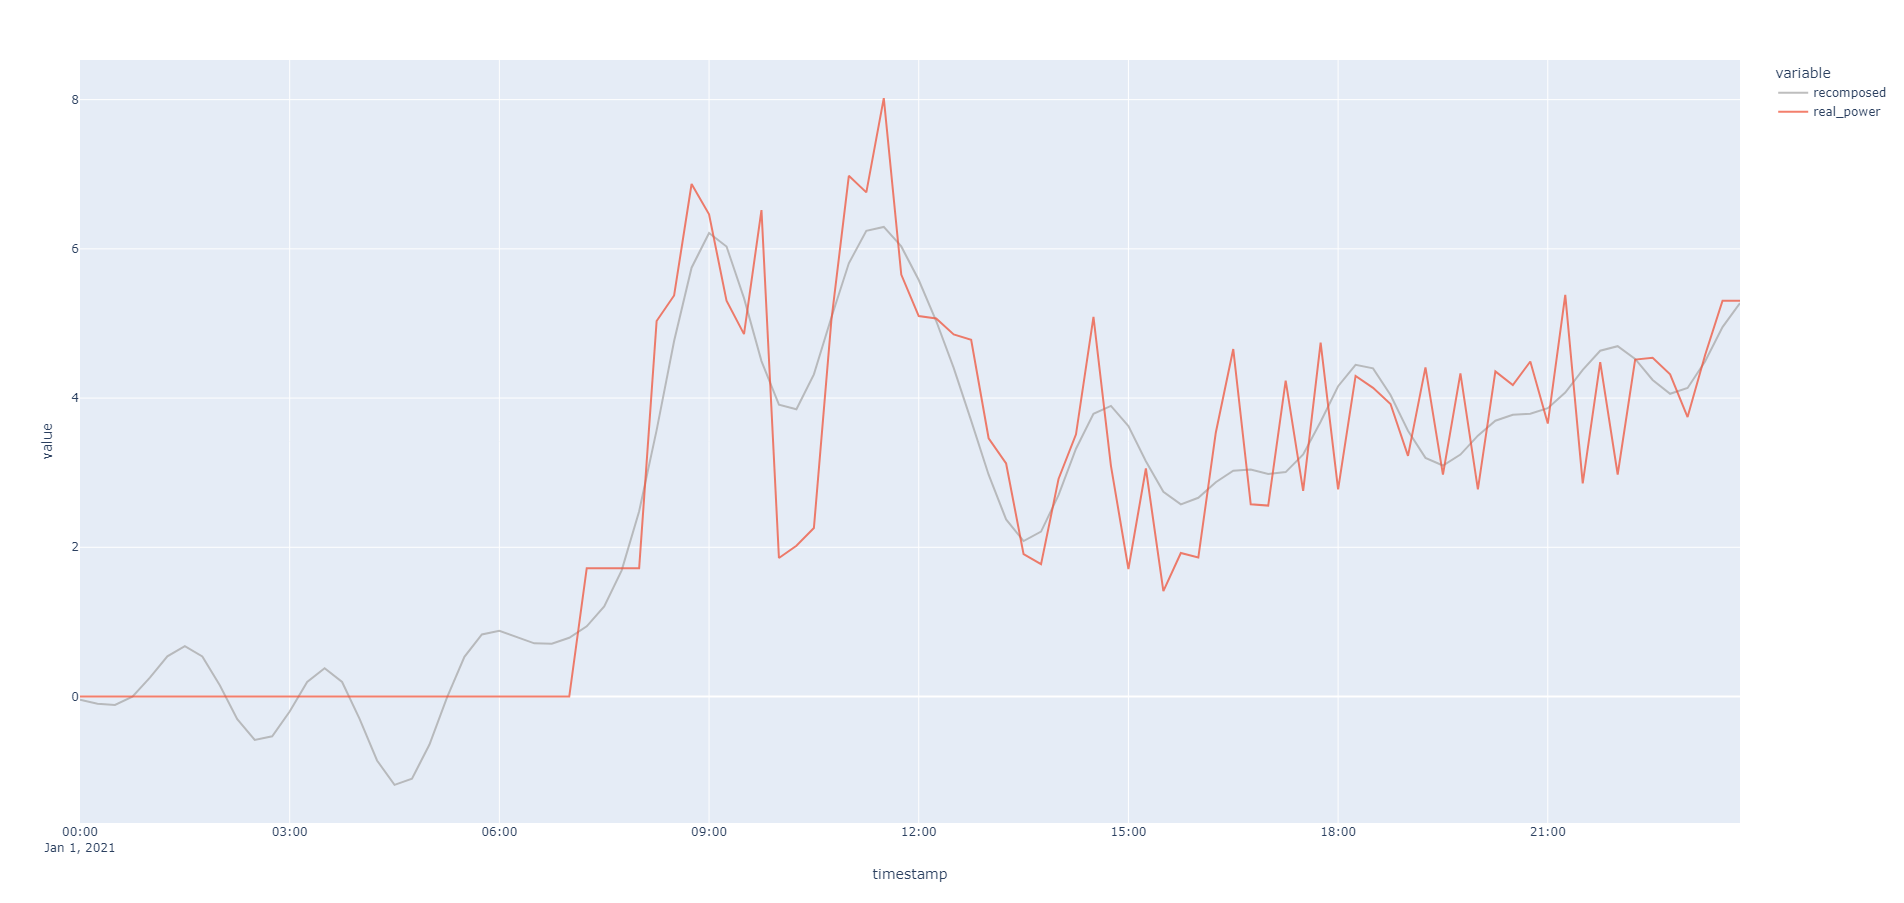
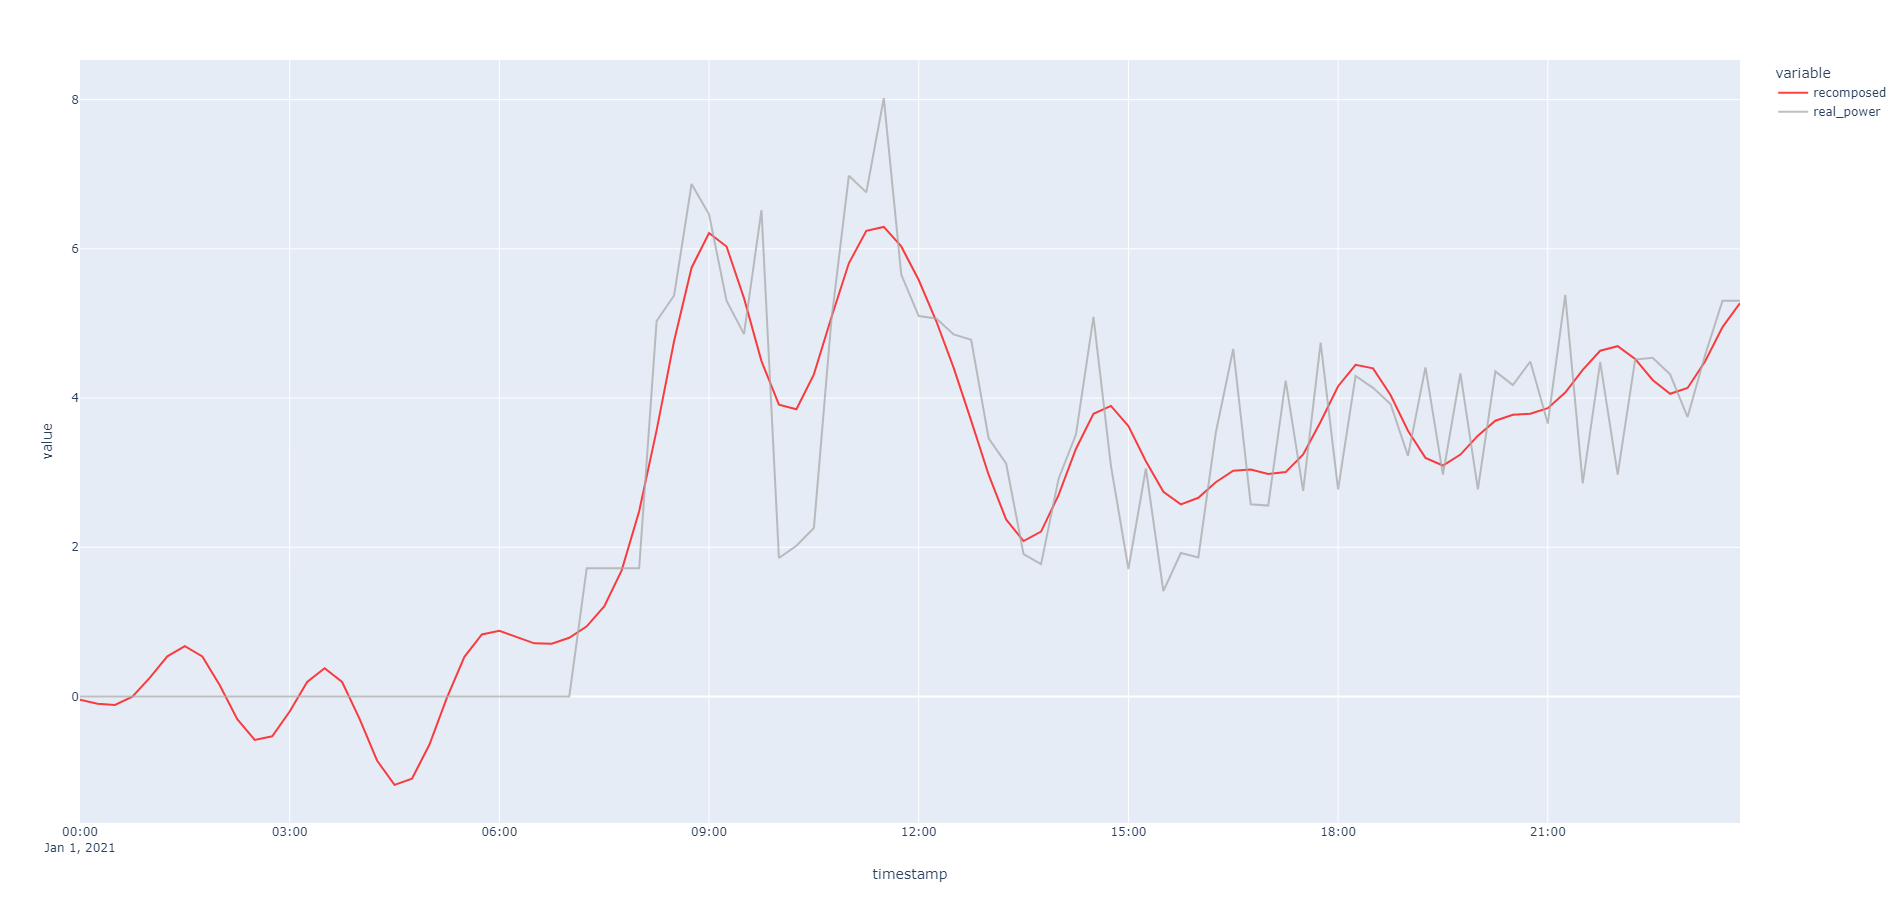
Progress on saving DCT values for analysis, created more buildings

diff --git a/main.py b/main.py
@@ -2,9 +2,13 @@ import multiprocessing
 import pandas as pd
 import plotly.express as px
 import pickle
+import numpy as np
+from os.path import exists
+from os import makedirs
 
 import config
 import dct
+import normalization as norm
 from list_files import list_files_in_dir
 
 # Building module-related imports
@@ -12,9 +16,6 @@ from virtual_buildings import create_buildings as cb
 #from building_analysis.reader import Reader
 #from building_analysis.decryptor import Decryptor
 from processor.commonDB import DBConn
-
-# Output directory for prepped data
-OUTPUT_DIR = "./output/"
 
 def populate_database():
     import processor.populateRecords as popdb
@@ -31,9 +32,12 @@ def unpickle_buildings():
     # Get all buildings from files and place in one big frame for processing
     try:
         for file in list_files_in_dir(filepath, append_path=True):
+            print(file)
             with open(file, "rb") as file:
                 building= pickle.load(file)
             buildings_frame = pd.concat((buildings_frame, building))
+            dates = np.unique(buildings_frame.index.date) # timestamp is index
+            print("Buildings frame:", dates, "\n=========")
         return buildings_frame
     except Exception as ex:
         print("Could not unpickle buildings:", ex)
@@ -45,7 +49,7 @@ def main():
     if TEST_QUERY == True:
         print("Testing query (may take a while)")
         with DBConn.create_connection(config.DATABASE) as conn:
-            #columns = ['ee_site_id', 'point_id', 'timestamp', 'duration', 'real_power', 'apparent_power', 'pf']
+            columns = ['ee_site_id', 'point_id', 'timestamp', 'duration', 'real_power', 'apparent_power', 'pf']
             columns = ['timestamp']
             query = "SELECT * FROM POWER WHERE ee_site_id=491 AND timestamp=1585155600"
             query = "SELECT timestamp FROM POWER"
@@ -53,33 +57,81 @@ def main():
             data = results.fetchall()
             data = pd.DataFrame.from_records(data=data, columns=columns)
         print(data)
+        """
+            createIndex = "CREATE INDEX index_point_id ON POWER(point_id)"
+            cursor_obj = conn.cursor()
+            cursor_obj.execute(createIndex)
+            cursor_obj.execute("PRAGMA optimize;") # Collects statistics that speed up queries
+            cursor_obj.close()
+        """
         print("Query testing done.")
 
+    # Create the database. Required for any other operations.
     if config.READ_FILES == True:
         populate_database()
     
+    # Create buildings from the data. 
+    # Optionally, save them to a pickle file in OUTPUT_DIR/buildings/
     if config.CREATE_BUILDINGS == True:
         cb.make_buildings(config.BUILDING_COUNT, pickle=True)
 
+    # Calculate DCT on data and perform any selected operations with it
     if config.DCT == True:
         buildings = unpickle_buildings()
-        for id in buildings["building_id"].unique():
-            this_building = buildings[buildings["building_id"] == id]
-            dct_matrix = dct.decompose(this_building["real_power"])
-            dct_matrix = dct.drop_coefficients(dct_matrix)
-            recomposed = dct.recompose(dct_matrix)
+        # Normalize the database to values between 0 and 1.
+        if config.NORMALIZE == True:
+            buildings["real_power"] = norm.normalize(buildings["real_power"])
+            print(buildings["real_power"])
 
-            if config.GRAPH_DCT == True:
-                graphframe = pd.DataFrame()
-                graphframe = pd.concat((graphframe, pd.Series(data=recomposed)))
-                graphframe = graphframe.rename(columns={0: "recomposed"})
-                graphframe = pd.concat((graphframe, buildings["real_power"].reset_index()), axis=1)
-                graphframe = graphframe.set_index("timestamp")
-                #print(graphframe)
-                fig = px.line(graphframe)
-                fig.update_traces(opacity=0.75)
-                fig.data[0].line.color = "#A9A9A9"
-                fig.show()
+        # DCT operations: calculating, zeroing coefficients, and recomposing afterwards
+        # to get the data back into a usable form    
+        for id in buildings["building_id"].unique():
+            print("Performing DCT on building", id)
+            this_building = buildings[buildings["building_id"] == id]
+            if config.STORE_DCT == False:
+                dct_matrix = dct.decompose(this_building["real_power"])
+                dct_matrix = dct.drop_coefficients(dct_matrix)
+                recomposed = dct.recompose(dct_matrix)
+
+                # Graph DCT values with original data to see visual changes
+                if config.GRAPH_DCT == True:
+                    print("Preparing graph for building", id)
+                    graphframe = pd.DataFrame()
+                    graphframe = pd.concat((graphframe, pd.Series(data=recomposed)))
+                    graphframe = graphframe.rename(columns={0: "recomposed"})
+                    graphframe = pd.concat((graphframe, buildings["real_power"].reset_index()), axis=1)
+                    graphframe = graphframe.set_index("timestamp")
+                    #print(graphframe)
+                    fig = px.line(graphframe)
+                    fig.update_traces(opacity=0.75)
+                    fig.data[0].line.color = "red"
+                    fig.data[1].line.color = "#A9A9A9"
+                    print("Showing graph in web browser")
+                    fig.show()
+
+            # For each building, calculate and save DCT values for each day of data
+            else: # config.STORE_DCT != False
+                print("Preparing array of DCT coefficients for all days in data.")
+                dates = np.unique(this_building.index.date) # timestamp is index
+                print(dates)
+                coefficients = np.empty(0, dtype=np.float64)
+                for day in dates:
+                    # Get the day of data and do DCT on it
+                    day_data = this_building[this_building.index.date == day]
+                    day_dct_matrix = dct.decompose(day_data["real_power"], log=False)
+                    #day_dct_matrix = dct.drop_coefficients(day_dct_matrix)
+                    # TODO: consider nesting as 2D array instead to preserve daily association
+                    coefficients = np.concatenate((coefficients, day_dct_matrix))
+
+                filename = "Building-" + str(this_building["building_id"].iloc[0]) + "-coefficients.pkl"
+                print("Saving DCT coefficients to pickle file at", filename)
+                # Set directory path of output- output directory in config + "buildings" subdirectory
+                dirpath = config.OUTPUT_DIR + "coefficients/"
+                if not exists(dirpath):
+                    makedirs(dirpath)
+                # Save as file to output dir
+                with open(dirpath + filename, "wb") as outfile:
+                    pickle.dump(coefficients, outfile)
 
     if config.CREATE_STATISTICS == True:
         raise NotImplemented
@@ -90,7 +142,7 @@ if __name__ == '__main__':
     try:
         main()
     except KeyboardInterrupt:
-        print("Stopping.")
+        print("Stopping (please wait).")
 
     """
     if config.CREATE_STATISTICS == True:

diff --git a/dct.py b/dct.py
@@ -1,21 +1,26 @@
 from scipy.fftpack import dct, idct
 from math import floor
 import numpy as np
+from typing import Optional
 
 DCT_TYPE = 2
 
-DROP_BELOW_THRESHOLD = False
+DROP_BELOW_THRESHOLD = True
 THRESHOLD_VAL = 30
 
-DROP_HIGH = True
+DROP_HIGH = False
 PORTION_TO_DROP = 3/4
 
-KEEP_LARGEST_HIGH = True
+KEEP_LARGEST_HIGH = False
 NUMBER_OF_LARGEST = 5
 
 # Break data into cosine functions using DCT. Outputs an array of coefficients.
-def decompose(target_column):
-    print("Decomposing into DCT coefficients.")
+def decompose(
+        target_column, # Pandas series to decompose
+        log: Optional[bool] = False # Whether to log decomposition to terminal
+        ):
+    if log == True:
+        print("Decomposing into DCT coefficients.")
     real_power = target_column.to_numpy()
     dct_real = dct(real_power, type=DCT_TYPE)
     return dct_real
@@ -45,16 +50,17 @@ def drop_coefficients(coefficients_array):
         # Drop high frequency values
         coefficients_array[-index_of_drop:] = 0
 
-        # Add back in the most significant high frequency coefficients
-        if KEEP_LARGEST_HIGH == True:
-            for i in range(0, NUMBER_OF_LARGEST):
-                value_to_keep = max(high_freqs)
-                # TODO: deal with duplicate maxes
-                high_freqs = np.delete(high_freqs, np.where(high_freqs == value_to_keep))
-                keep_position = np.where(all_freqs == value_to_keep)
-                print("Keeping", value_to_keep, "at", keep_position)
-                coefficients_array[keep_position] = value_to_keep
-    print(coefficients_array)
+    # Add back in the most significant high frequency coefficients
+    if KEEP_LARGEST_HIGH == True:
+        for i in range(0, NUMBER_OF_LARGEST):
+            value_to_keep = max(high_freqs)
+            # TODO: deal with duplicate maxes
+            high_freqs = np.delete(high_freqs, np.where(high_freqs == value_to_keep))
+            keep_position = np.where(all_freqs == value_to_keep)
+            print("Keeping", value_to_keep, "at", keep_position)
+            coefficients_array[keep_position] = value_to_keep
+
+    #print(coefficients_array)
     print("Coefficient adjustment done.")
     return coefficients_array
 
@@ -68,3 +74,17 @@ def recompose(coefficients_array):
     scalar = 66.432 / 0.346
     data = data / scalar
     return data
+
+# Add noise to coefficients for differential privacy
+# TODO: right now, noise is added the same way for all coefficients.
+# Would some coefficients benefit from more or less noise to balance privacy
+# with accuracy? It seems likely.
+def add_noise(coefficients_array):
+    location = 0
+    scale = 1 # TODO: figure out what to set this to
+    rng = np.random.default_rng()
+    for coefficient in coefficients_array:
+        noise = rng.laplace(location, scale)
+        noisy_coefficient = coefficient + noise
+        coefficients_array[coefficient] = noisy_coefficient
+    return coefficients_array

diff --git a/virtual_buildings/create_buildings.py b/virtual_buildings/create_buildings.py
@@ -10,7 +10,7 @@ from math import floor
 #import processor.pullMains as pulldb
 from processor.commonDB import DBConn
 from logger_config import config_logger
-from config import DATABASE, SEED, ENCRYPT_COLS, PORTION_OF_CPU, ENCRYPT, OUTPUT_DIR
+from config import DATABASE, SEED, ENCRYPT_COLS, PORTION_OF_CPU, ENCRYPT, OUTPUT_DIR, FIRST_BUILDING_ID
 
 # Setting copy on write for PANDAS as recommended here:
 # https://pandas.pydata.org/pandas-docs/stable/user_guide/indexing.html#returning-a-view-versus-a-copy
@@ -44,12 +44,20 @@ def choose_random_ids():
     s = 3.28533426
     count = -1 # Obviously invalid placeholder to initiate while loop
     dist = building_dist(name="building_dist")
-    while count < 2:
+    min_size = 2
+    max_size = 5
+    while count < min_size or count > max_size:
         count = int(dist.rvs(loc1=loc1, scale1=scale1, loc2=loc2, scale2=scale2, s=s, size=1)[0]) # Generate building size
     # Get possible IDs to choose from
 
+    # Query times:
+    # 6 units (26444, 27168, 33342, 51837, 25838, 26836): 90 mins
+    # 4 units (35390, 33789, 25973, 25291): 30 mins
+    # 3 units (26620, 59489, 47757): 5 mins
+    # 2 units:
+
 # TEMP FOR QUICK ENCRYPTION/AGGREGATION TESTING
-    #count = 3
+    count = 3
 # TEMP
 
     print("Selecting building IDs.")
@@ -72,7 +80,7 @@ def choose_random_ids():
     return building_ids
 
 def make_buildings(count, pickle: bool):
-    for i in range(0, count):
+    for i in range(FIRST_BUILDING_ID, FIRST_BUILDING_ID + count):
         ids = choose_random_ids()
         print("Creating building", i)
         building = Building(ids, encrypt=ENCRYPT, building_id=i, pickle=pickle)

diff --git a/normalization.py b/normalization.py
@@ -1,0 +1,25 @@
+import pandas as pd
+from sklearn.preprocessing import minmax_scale
+
+# data should be a pandas frame column (series)
+def normalize(data):
+    data = data.to_numpy()
+    return minmax_scale(data)
+
+""" 
+Logic:
+
+Get list of all days in the database
+for each day, normalize
+get building (either very small for speed or size of whole dataset)
+calculate DCT, add to file (pickle it)
+
+Plot distribution of DCT coefficient sizes
+(so you probably want this in PANDAS or a np array)
+
+Measure efficacy of methods using time-weighted mean:
+avg / sample count
+
+it might be worthwhile to have a normalized version of the database file
+normalization will probably come in handy again
+"""

diff --git a/config.py b/config.py
@@ -7,7 +7,9 @@ CREATE_STATISTICS = False
 ENCRYPT = False
 
 DCT = True
-GRAPH_DCT = True
+NORMALIZE = True
+GRAPH_DCT = False
+STORE_DCT = True
 
 # Database file target
 DATABASE = "records.db"
@@ -43,7 +45,9 @@ END_DATE = "2022-01-01"
 # How many buildings to make per day if processing via distribution. 
 # # Set to -1 for "as many as possible without duplicating sites"
 # If processing multiple years for analysis, it's recommended to keep this value the same between years
-BUILDING_COUNT = 1
+BUILDING_COUNT = 3
+# What building ID number to start at
+FIRST_BUILDING_ID = 3
 
 # Output directory for prepped data
 OUTPUT_DIR = "./output/"

diff --git a/processor/populateRecords.py b/processor/populateRecords.py
@@ -136,5 +136,8 @@ def populateAll():
                     elif len(row) != 8: # Handle misformatted data
                         print("Columns missing from row:", str(row))
             DBConn.insert_PowerRecords(conn, allRows)
+            createIndex = "CREATE INDEX index_point_id ON point_id"
+            cursor_obj.execute(createIndex)
+            cursor_obj.execute("PRAGMA optimize;")
             cursor_obj.close()
             print ("Done with", aFile)
